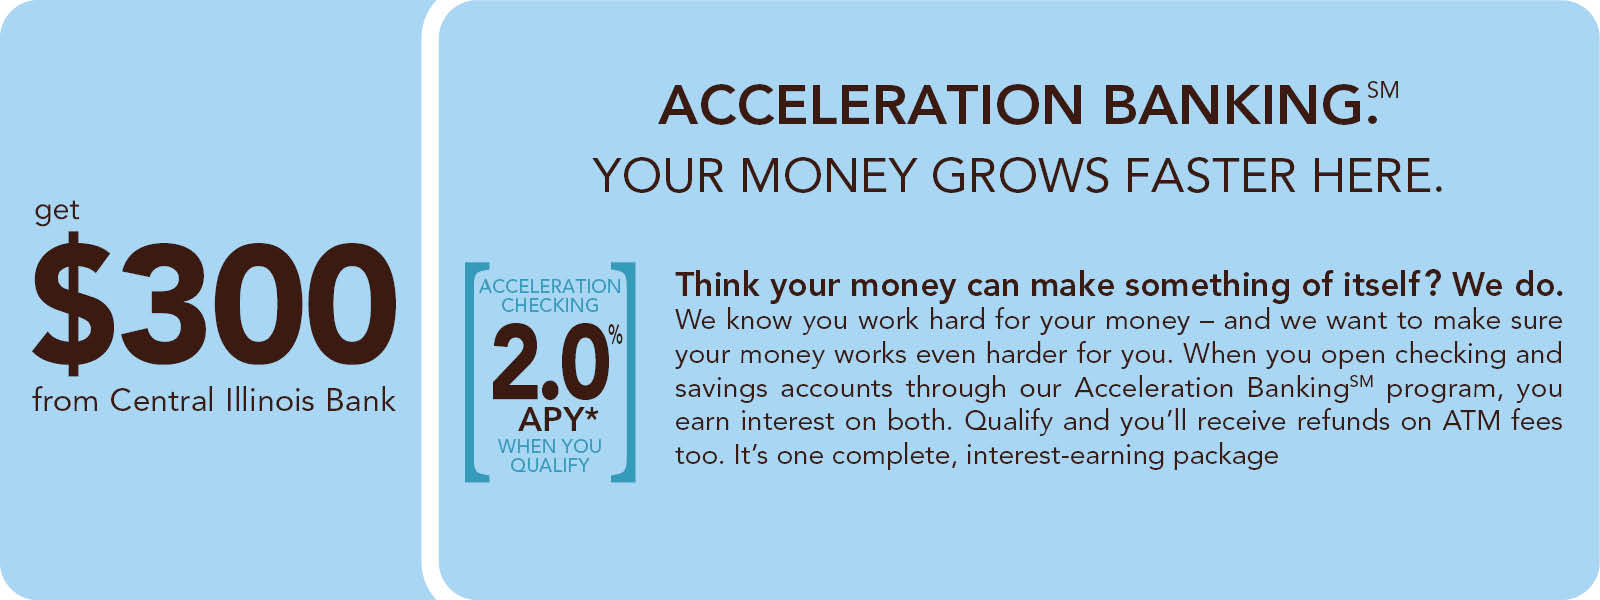
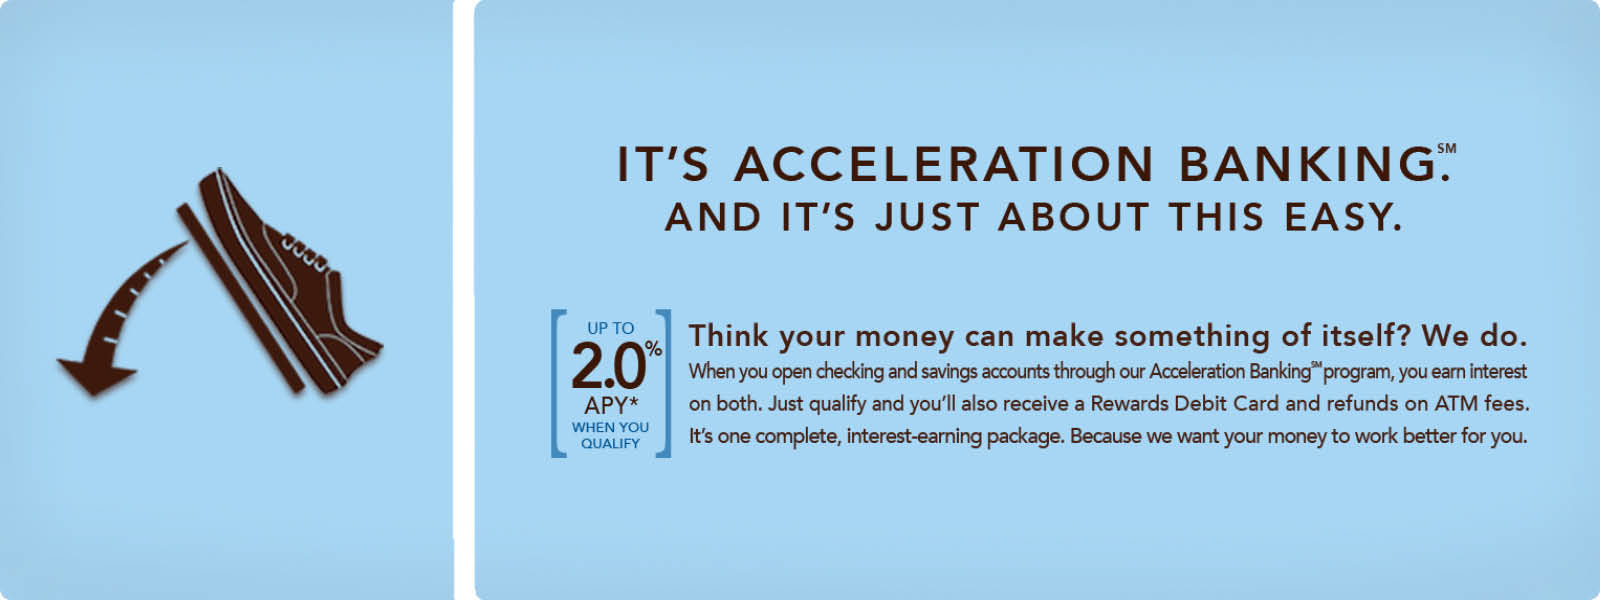
remove get 00 offer

diff --git a/acceleration.html b/acceleration.html
@@ -71,7 +71,7 @@
             </div><!- row -->
 
             <div class="row spacer">
-            	<p>*Annual Percentage Yield accurate as of 2/9/18. Variable rate accounts. Interest rates subject to change. Fees may reduce earnings. Accounts closed within 6 months of opening date are subject to a $75.00 closing fee. Limit one Acceleration Checking and Acceleration Savings account per primary social security number. Acceleration Checking: Minimum balance to open account $100. Customer must set up e-statements through online banking, establish a monthly direct deposit and perform 12 debit card purchases each month to “qualify” and receive tiered rates and ATM surcharge refunds up to $12. Transactions may take one or more business days to post and clear the account. Checking account balances of $0.00-$10,000.00 (2.00% APY); $10,000.01 and above (.15% APY). If qualifications are not met, all funds in checking account earn .025% APY. $300.00 bonus offer limited to new Acceleration Checking accounts opened between 2/12/18 and 3/30/18. To receive the bonus Acceleration Checking “qualifications” must be met the first two consecutive months after account opening. Cash bonus will be deposited into the account following the third statement cycle by the 10th of the month. Cash bonus considered income and reportable on IRS Form 1099-INT. If Acceleration Savings is also opened, interest earned on Acceleration Checking is automatically transferred to Acceleration Savings and then compounds at Acceleration Savings rates. Acceleration Savings: Account can only be opened in conjunction with Acceleration Checking account. Savings account balances of $0.00-$10,000.00 (.35% APY); $10,000.01 and above (.15% APY). If qualifications of Acceleration Checking account are not met during the month, all funds in Savings account earn .025% APY.
+            	<p>*Annual Percentage Yield accurate as of 3/31/18. Variable rate accounts and interest rates are subject to change. Fees may reduce earnings. Accounts closed within 6 months of opening date are subject to a $25.00 closing fee. Limit one Acceleration Checking and Acceleration Savings account per primary social security number. Acceleration Checking: Minimum balance to open account $100. Customer must initiate set up of e-statements through online banking, establish a monthly direct deposit and perform 12 debit card purchases each month to qualify and receive tiered rates and ATM surcharge refunds up to $12. Transactions may take one or more business days from the date transaction was made to post and clear the account. Checking account balances of $0.00-$10,000.00 (2.00% APY); $10,000.01 and above (.15% APY). If qualifications are not met, all funds in checking account earn .025% APY. If Acceleration Savings is also opened, interest earned on Acceleration Checking is automatically transferred to Acceleration Savings and then compounds at Acceleration Savings rates. Acceleration Savings: Account can only be opened in conjunction with Acceleration Checking account. Savings account balances of $0.00-$10,000.00 (.35% APY); $10,000.01 and above (.15% APY). If qualifications of Acceleration Checking account are not met during the month, all funds in Savings account earn .025% APY.
               </p>
             </div><!-- row -->
           </div>

diff --git a/index.html b/index.html
@@ -26,14 +26,11 @@
                             <li data-target="#homepage-feature" data-slide-to="0" class="active"></li>
                             <li data-target="#homepage-feature" data-slide-to="1"></li>
                             <li data-target="#homepage-feature" data-slide-to="2"></li>
-                            <li data-target="#homepage-feature" data-slide-to="3"></li>
+                            <!-- <li data-target="#homepage-feature" data-slide-to="3"></li> -->
                         </ol>
                         <!-- Wrapper for slides -->
                         <div class="carousel-inner">
                             <div class="item active">
-                              <a href="acceleration.html"><img src="img/accel_offer.jpg" alt="Offer for $300"></a>
-                            </div>
-                            <div class="item">
                               <a href="savings.html#moneymarket"><img src="img/MM-CD_Carousel_CIB.jpg" alt="Money Market Special Offer"></a>
                             </div>
                             <div class="item">
